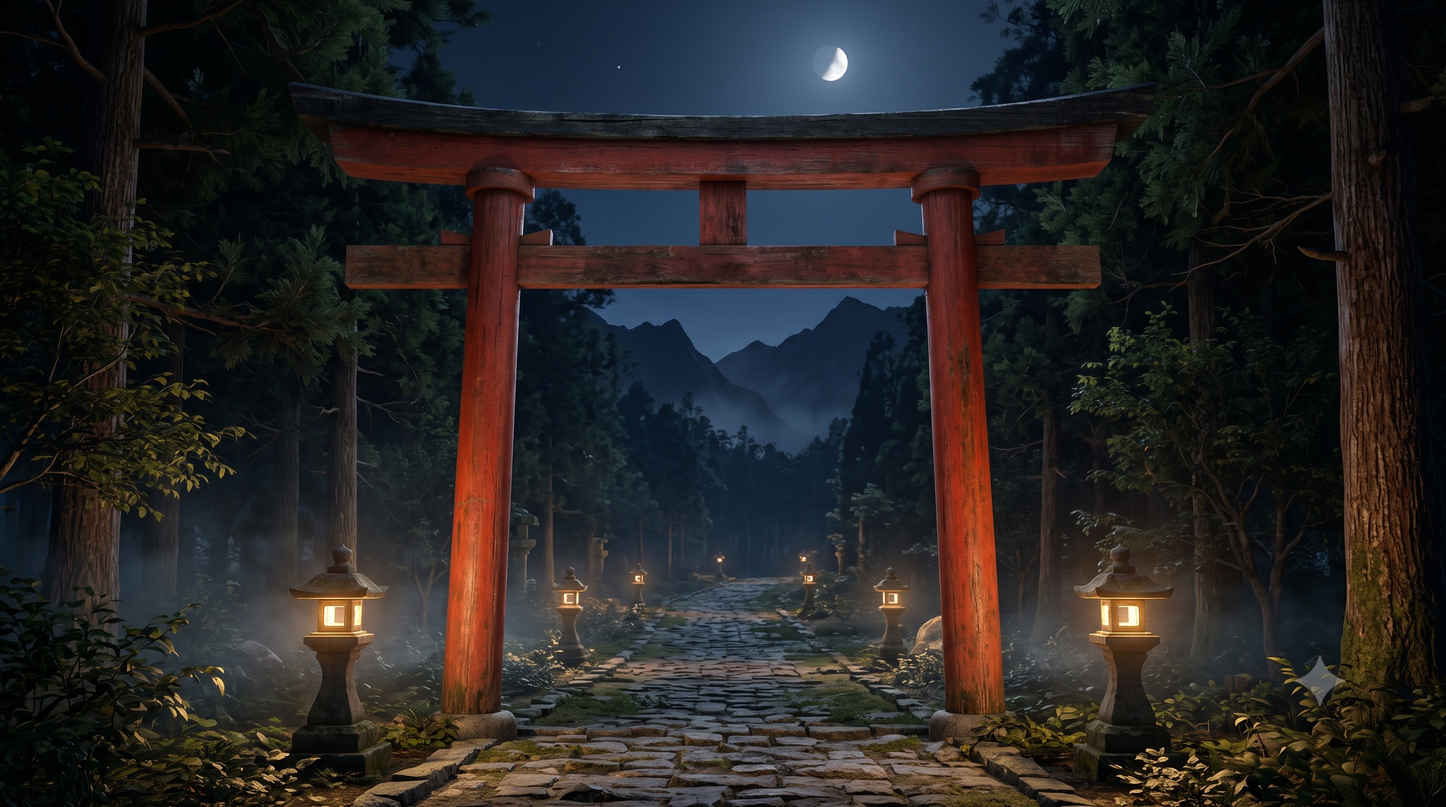
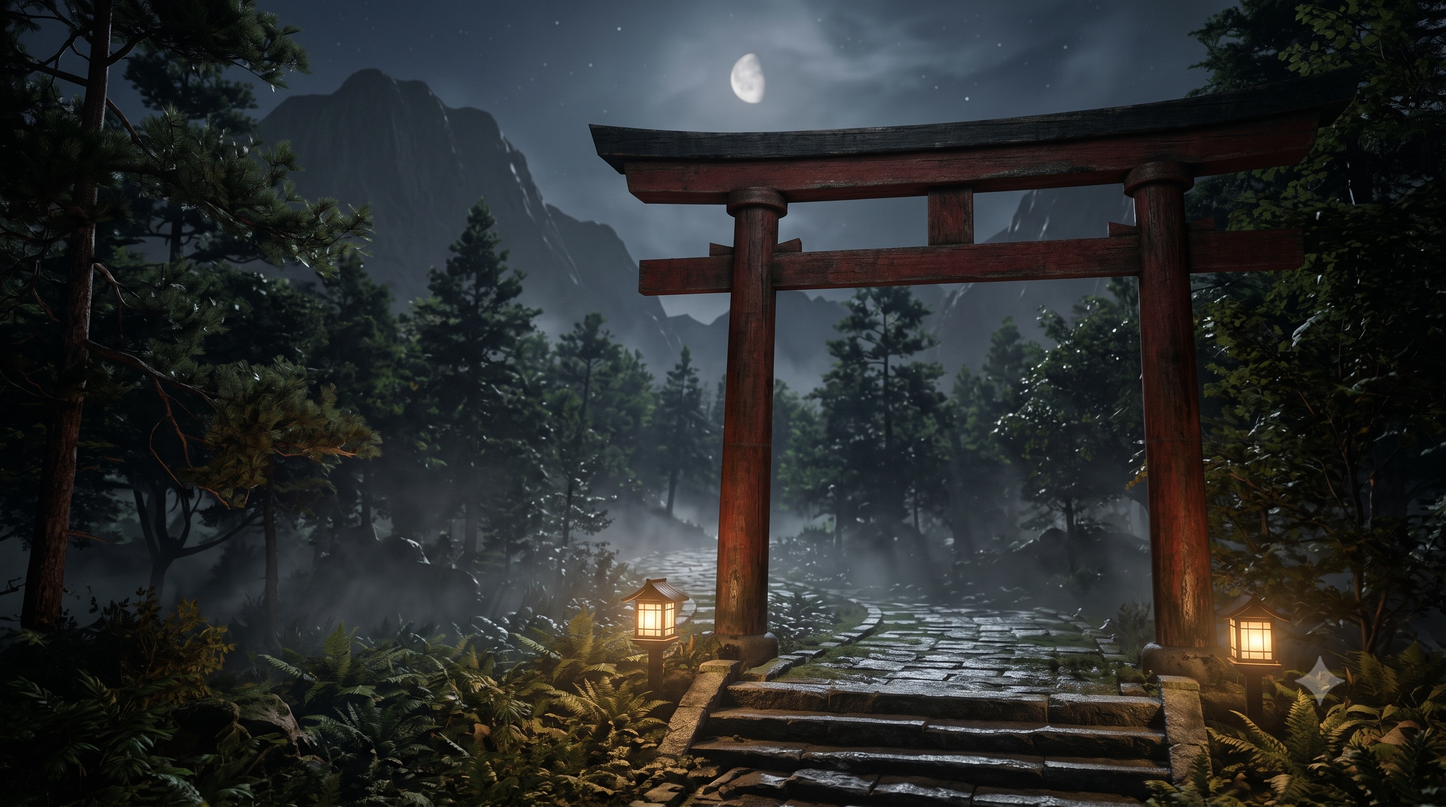
Japan: replace background photo, recalibrate curtain to new gate position
New torii photo (Gemini_Generated_Image_8gm4o68gm4o68gm4.png ->
torii-gate.jpg, quality-88 JPEG same as before) has the gate off-
center and angled, further right in frame than the old symmetric
photo. Recalibrated by scanning this photo's own pixels for the
vermillion pillars and lower crossbeam (same method as the original
calibration, not eyeballed):
- OPENING_LEFT_FRAC 0.355 -> 0.52
- OPENING_RIGHT_FRAC 0.645 -> 0.805
- RAIL_Y_FRAC 0.38 -> 0.34
- BG_SHIFT_FRAC 0.14 -> 0 (this photo's gate already sits well
  right-of-center on its own; the artificial push the old symmetric
  photo needed doesn't apply here and only overcropped it)

Verified with the timer UI hidden (it was overlapping the opening
and made alignment hard to judge visually) in both cover-fit branches
-- the curtain hangs cleanly between the two pillars in each.

Also renamed the "split-flap" theme label to "split - flap".

diff --git a/src/components/JapanCurtain.tsx b/src/components/JapanCurtain.tsx
@@ -15,20 +15,23 @@ const IMG_H = 1536;
 
 // how far the crop window is nudged within the source image, as a fraction of the crop's
 // own width -- see getCoverCrop(). Applied identically wherever the background is drawn.
-const BG_SHIFT_FRAC = 0.14;
+// This photo's gate already sits well right-of-center on its own (unlike the previous,
+// symmetrically-centered one that needed an artificial push), so no extra shift here.
+const BG_SHIFT_FRAC = 0;
 
-// measured directly from the photo's own pixels (scanning for the vermillion-red
-// pillars/beams), as fractions of the SOURCE IMAGE width -- not the canvas. The cover-fit
-// crop has two branches (crop left/right vs. crop top/bottom, depending on how the
-// canvas's aspect ratio compares to the photo's), and which one applies changes at
-// runtime as the stage resizes (e.g. opening/closing the task panel). A fixed
-// canvas-fraction offset only tracked one branch correctly and snapped out of alignment
-// in the other, so the opening's on-canvas position is now derived from these
-// image-space fractions through whatever the *current* crop rectangle actually is (see
+// measured directly from THIS photo's own pixels (scanning for the vermillion-red
+// pillars and the lower crossbeam, the same way as before -- see the color-scan approach
+// noted for whoever swaps the photo again), as fractions of the SOURCE IMAGE width/height,
+// not the canvas. The gate here sits off-center and at an angle, further right than the
+// previous photo's. The cover-fit crop has two branches (crop left/right vs. crop
+// top/bottom, depending on how the canvas's aspect ratio compares to the photo's), and
+// which one applies changes at runtime as the stage resizes (e.g. opening/closing the
+// task panel) -- the opening's on-canvas position is derived from these image-space
+// fractions through whatever the *current* crop rectangle actually is (see
 // curtainGeometry()), which stays correct across both branches and any shift applied.
-const OPENING_LEFT_FRAC = 0.355;
-const OPENING_RIGHT_FRAC = 0.645;
-const RAIL_Y_FRAC = 0.38;
+const OPENING_LEFT_FRAC = 0.52;
+const OPENING_RIGHT_FRAC = 0.805;
+const RAIL_Y_FRAC = 0.34;
 
 const STRANDS = 22;
 const BEADS_PER_STRAND = 11;

diff --git a/src/components/PersonalThemeTabs.tsx b/src/components/PersonalThemeTabs.tsx
@@ -20,7 +20,7 @@ const FUN_OPTIONS: { value: PersonalTheme; label: string }[] = [
   ...(import.meta.env.DEV ? [{ value: "f1track" as const, label: "f1 - austria circuit" }] : []),
   { value: "yt", label: "youtube" },
   { value: "forest1", label: "forest 1" },
-  { value: "splitflap", label: "split-flap" },
+  { value: "splitflap", label: "split - flap" },
   { value: "japan", label: "japan - curtain" },
   { value: "matrix", label: "matrix" },
 ];
